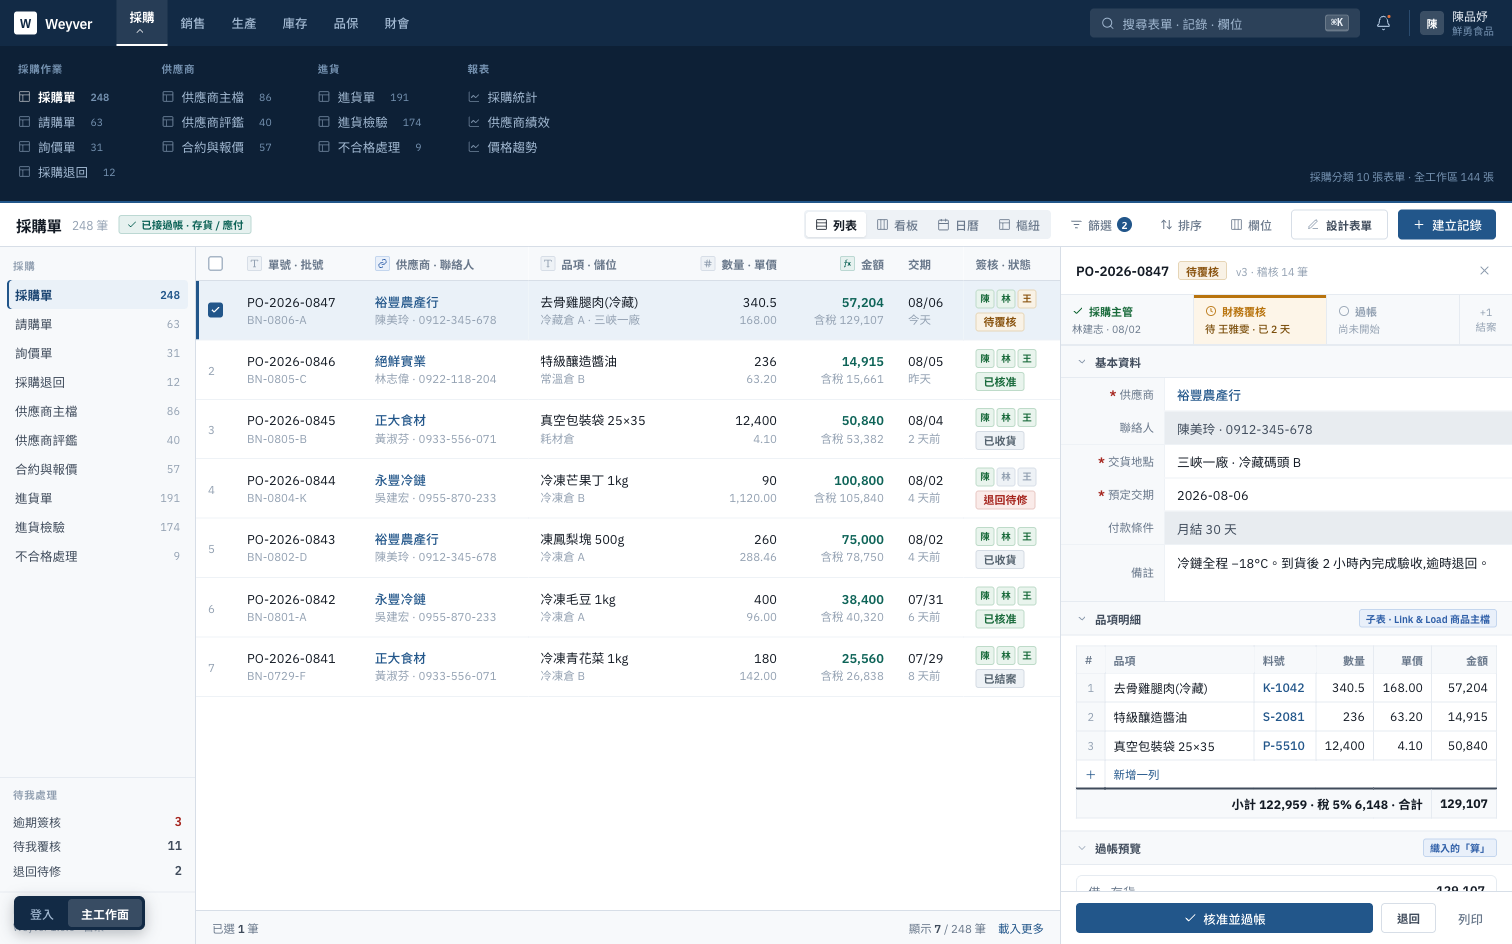
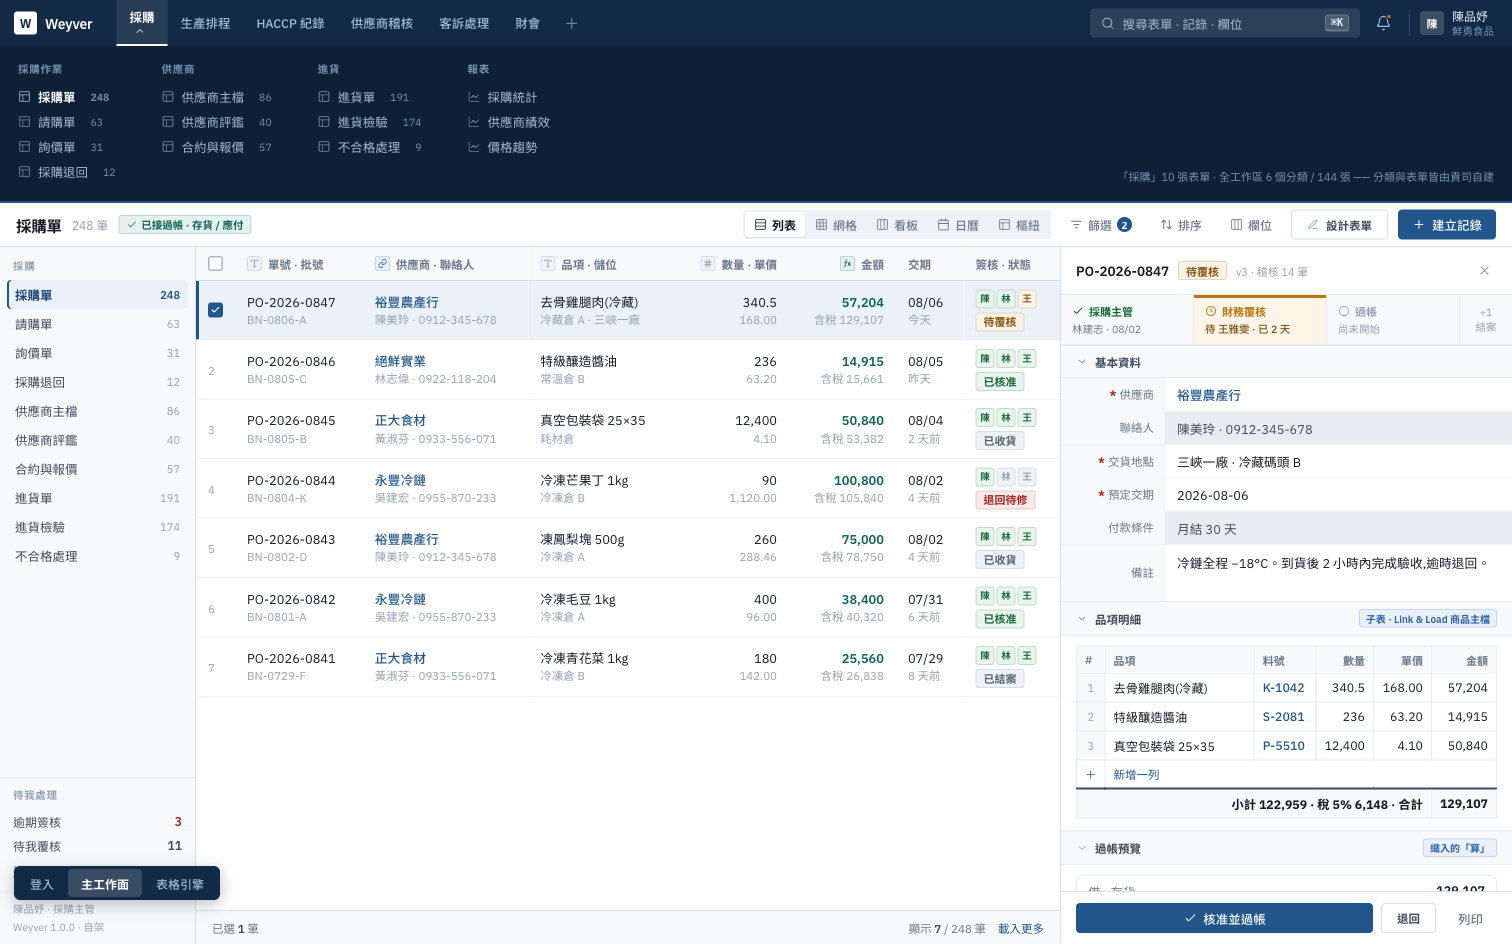
docs(design): 導覽分類改掉「固定模組列」—— 示範資料本身就是定位宣告
決策方問「採購/銷售/生產/庫存/品保/財會 是指什麼」,並指出 Ragic 沒有這種
針對性很強的導覽提示。回去看實際截圖,證據比預期更硬。

**ragic-03 / ragic-05 顯示 Ragic 示範帳號的頂欄分類是**:
報表 · 活動管理 · 庫存 · 訂單管理 · 業務 · 採購 · 人才招募 · ＋

兩件事:
① 它是**刻意混的** —— 庫存 / 訂單管理 / 採購 有 ERP 味,但 **活動管理**(活動資訊 /
   報到清單)與 **人才招募** 不是任何 ERP 的模組。這個組合本身就在說
   「分類是使用者自己開的」。
② **`＋` 長在頁籤列裡**,永遠看得見。

🔴 我方踩的:v1 初稿六個全是 ERP 模組名,**而且我把 `＋` 拿掉了**。
兩個錯疊起來就是一條鼎新式固定模組列 ——
**正好推翻「表單引擎是 substrate,不是模組之一」的定位**。

已改為 採購 · 生產排程 · HACCP 紀錄 · 供應商稽核 · 客訴處理 · 財會 · ＋。
HACCP 與客訴不是任何 ERP 的標準模組名,一眼就看得出是自建的。

順帶查證能力面沒問題:form_categories 是 tenant-scoped,有 parent_id(巢狀)、
position(自訂排序)、租戶內名稱唯一;category_permissions 掛在分類上,
所以**分類同時是權限的單位**;CRUD 四個端點齊全且設定頁有 UI。
mega-menu 第二層畫成子分類,對得上 parent_id。

不抄的部分也記下:Ragic 的分類頁籤是彩色的(紫/藍/綠/青),
那已在 §3.3「主色隨模組跳」的舊感清單裡 —— 我方頁籤維持單色。

docs/38 新增 §3.4 與 W23。

diff --git a/docs/mockups/weyver-v1.html b/docs/mockups/weyver-v1.html
@@ -231,6 +231,8 @@ a:hover{text-decoration:underline;}
 .cats button:hover{color:#fff;background:rgba(255,255,255,.06);}
 .cats button.on{color:#fff;font-weight:600;border-bottom-color:#fff;background:rgba(255,255,255,.09);}
 .cats button.on svg{width:11px;height:11px;margin-left:5px;transition:transform .14s;}
+.cats button.add{padding:0 11px;font-size:15px;color:var(--shell-ink-3);font-weight:400;}
+.cats button.add:hover{color:#fff;background:rgba(255,255,255,.08);}
 .cats button.on.open svg{transform:rotate(180deg);}
 
 .top .rt{margin-left:auto;display:flex;align-items:center;gap:9px;}
@@ -678,8 +680,14 @@ tr:hover td.chk .cbx,tr.sel td.chk .cbx{display:inline-flex;}
   <div class="top">
     <div class="mark"><div class="sq">W</div><div class="nm">Weyver</div></div>
     <div class="cats">
-      <button class="on" id="catbtn">採購<svg viewBox="0 0 24 24"><path d="m6 9 6 6 6-6"/></svg></button><button>銷售</button><button>生產</button>
-      <button>庫存</button><button>品保</button><button>財會</button>
+      <button class="on" id="catbtn">採購<svg viewBox="0 0 24 24"><path d="m6 9 6 6 6-6"/></svg></button><button>生產排程</button><button>HACCP 紀錄</button>
+      <button>供應商稽核</button><button>客訴處理</button><button>財會</button>
+      <!-- 🔴 `＋` 長在頁籤列裡 —— 逐字對照 ragic/ragic-03。
+           這是「分類是你自己開的」在介面上唯一的證據,v1 初稿把它拿掉了。
+           分類名也刻意混:Ragic 自家示範是 活動管理 / 人才招募 / 庫存 / 訂單管理 / 採購,
+           擺明不是 ERP 模組表。六個 ERP 模組名排一列 = 鼎新式固定模組列,
+           正好推翻「表單引擎是 substrate 不是模組之一」的定位。 -->
+      <button class="add" title="新增分類">＋</button>
     </div>
     <div class="rt">
       <button class="gsearch">
@@ -720,7 +728,7 @@ tr:hover td.chk .cbx,tr.sel td.chk .cbx{display:inline-flex;}
       <a><svg viewBox="0 0 24 24"><path d="M3 3v16a2 2 0 0 0 2 2h16"/><path d="m7 14 4-4 4 4 5-5"/></svg>供應商績效</a>
       <a><svg viewBox="0 0 24 24"><path d="M3 3v16a2 2 0 0 0 2 2h16"/><path d="m7 14 4-4 4 4 5-5"/></svg>價格趨勢</a>
     </div>
-    <div class="hint">採購分類 10 張表單 · 全工作區 144 張</div>
+    <div class="hint">「採購」10 張表單 · 全工作區 6 個分類 / 144 張 —— 分類與表單皆由貴司自建</div>
   </div>
 
   <div class="work">
